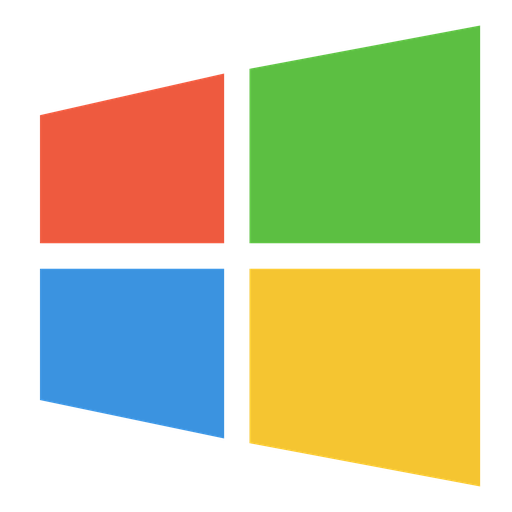
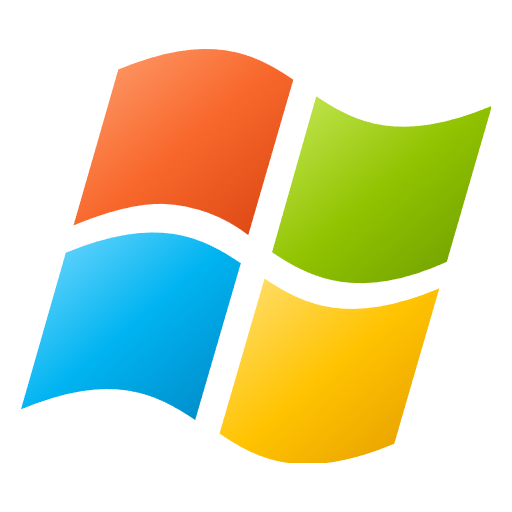
feat(shell): the real flag
The Start button, the boot screen, the login screen, System Properties and
the site icon all drew a flag made up from memory. They now draw the 2002
Windows logo's own paths - Wikimedia Commons' flat rendering - with the
gradients the Start button lit it with, and the PNGs for the home screen
are rendered from the same file.

diff --git a/src/icons.tsx b/src/icons.tsx
@@ -14,9 +14,9 @@
  * with alpha at q90; 48 icons, 186KB, none of it on the critical path. The
  * recipe is in public/icons/xp/README.md.
  *
- * The artwork is Microsoft's, the same way Bliss is - see TODO.md. Two icons
- * are still drawn here: the Start flag, which is the one thing that would be
- * a trademark rather than a picture, and the PDF badge, which XP never had.
+ * The artwork is Microsoft's, the same way Bliss is - see TODO.md. Two are
+ * still SVG here: the flag, whose paths are the 2002 logo's own with the
+ * Start button's lighting put back, and the PDF badge, which XP never had.
  *
  * Every export keeps the signature it had as an SVG - `size`, `style`,
  * `className` - so nothing that renders an icon knows or cares what it is.
@@ -168,30 +168,39 @@ export const PdfIcon = ({ size = 32, style, className }: IconProps) => (
   </svg>
 );
 
+/* The flag. The four panes are the 2002 Windows logo's own paths - the one
+ * on the Start button, the boot screen and the tab - from Wikimedia Commons'
+ * "Windows logo - 2002–2012 (Multicolored).svg". The logo was flat there;
+ * on the button XP lit it from the upper left and dropped a shadow under it,
+ * which is what the gradients and the caller's filter put back. Microsoft's
+ * mark, used the way Bliss is. */
 export const StartLogoIcon = ({ size = 18, style, className }: IconProps) => (
-  <svg viewBox="0 0 32 32" style={box(size, style)} className={className} aria-hidden>
+  <svg viewBox="0 0 170 150" style={box(size, style)} className={className} aria-hidden>
     <defs>
       <linearGradient id="wf-r" x1="0" x2="1" y1="0" y2="1">
-        <stop offset="0" stopColor="#ff8b7a" />
-        <stop offset="1" stopColor="#e33b26" />
+        <stop offset="0" stopColor="#ffa374" />
+        <stop offset="0.5" stopColor="#f8682c" />
+        <stop offset="1" stopColor="#d9430f" />
       </linearGradient>
       <linearGradient id="wf-g" x1="0" x2="1" y1="0" y2="1">
-        <stop offset="0" stopColor="#a6e48f" />
-        <stop offset="1" stopColor="#3f9c2c" />
+        <stop offset="0" stopColor="#c8ea5a" />
+        <stop offset="0.5" stopColor="#91c300" />
+        <stop offset="1" stopColor="#6c9a00" />
       </linearGradient>
       <linearGradient id="wf-b" x1="0" x2="1" y1="0" y2="1">
-        <stop offset="0" stopColor="#8ecbf7" />
-        <stop offset="1" stopColor="#1a70c8" />
+        <stop offset="0" stopColor="#7fdcff" />
+        <stop offset="0.5" stopColor="#00b4f1" />
+        <stop offset="1" stopColor="#0086c4" />
       </linearGradient>
       <linearGradient id="wf-y" x1="0" x2="1" y1="0" y2="1">
-        <stop offset="0" stopColor="#ffe694" />
-        <stop offset="1" stopColor="#eeb318" />
+        <stop offset="0" stopColor="#ffe27a" />
+        <stop offset="0.5" stopColor="#ffc300" />
+        <stop offset="1" stopColor="#e39a00" />
       </linearGradient>
     </defs>
-    {/* the flag waves: the top edge curves up, the bottom sags */}
-    <path d="M2.5 7.2 14 4.6v10.6H2.5z" fill="url(#wf-r)" />
-    <path d="M15.6 4.3 30 1.6v13.6H15.6z" fill="url(#wf-g)" />
-    <path d="M2.5 16.8H14v10.6L2.5 25z" fill="url(#wf-b)" />
-    <path d="M15.6 16.8H30v13.6l-14.4-2.7z" fill="url(#wf-y)" />
+    <path d="M82.2 67.3a53.9 53.9 0 0 0-31-11.3c-8.7-.1-19.1 2.4-32.2 7.8L35.2 7.4c33.1-13.7 49-6 63.3 3.7L82.2 67.3z" fill="url(#wf-r)" />
+    <path d="M170 20.7c-33 13.7-49 6-63.2-3.6L90.8 73.5c14.3 9.7 31.5 17.7 63.2 3.5l16.3-56.3z" fill="url(#wf-g)" />
+    <path d="M63 134.2c-14.3-9.6-30-17.6-63-3.9l16.2-56.6c33-13.6 49-5.9 63.3 3.8L63 134.2z" fill="url(#wf-b)" />
+    <path d="M88 83c14.4 9.6 30.3 17.3 63.3 3.6L135 142.8c-33 13.7-48.9 6-63.2-3.7L88.1 83z" fill="url(#wf-y)" />
   </svg>
 );

diff --git a/TODO.md b/TODO.md
@@ -175,8 +175,10 @@ XP's own (`public/icons/xp/`, from softwarehistorysociety/XPIcons) and the
 budget argument is answered the same way the wallpaper's was — the bytes live
 outside the bundle and are fetched by `<img>` when something shows them. The
 desktop costs eight small files at first paint. The licence position is the
-Bliss one, stated above. Two are still drawn: the Start flag, which would be
-the trademark rather than the picture, and the PDF badge, which XP never had.
+Bliss one, stated above. The flag is the 2002 logo's own paths (Wikimedia
+Commons, "Windows logo - 2002–2012 (Multicolored).svg") with the Start
+button's gradients put back; the PDF badge is still drawn, since XP never
+had one.
 
 ---
 
